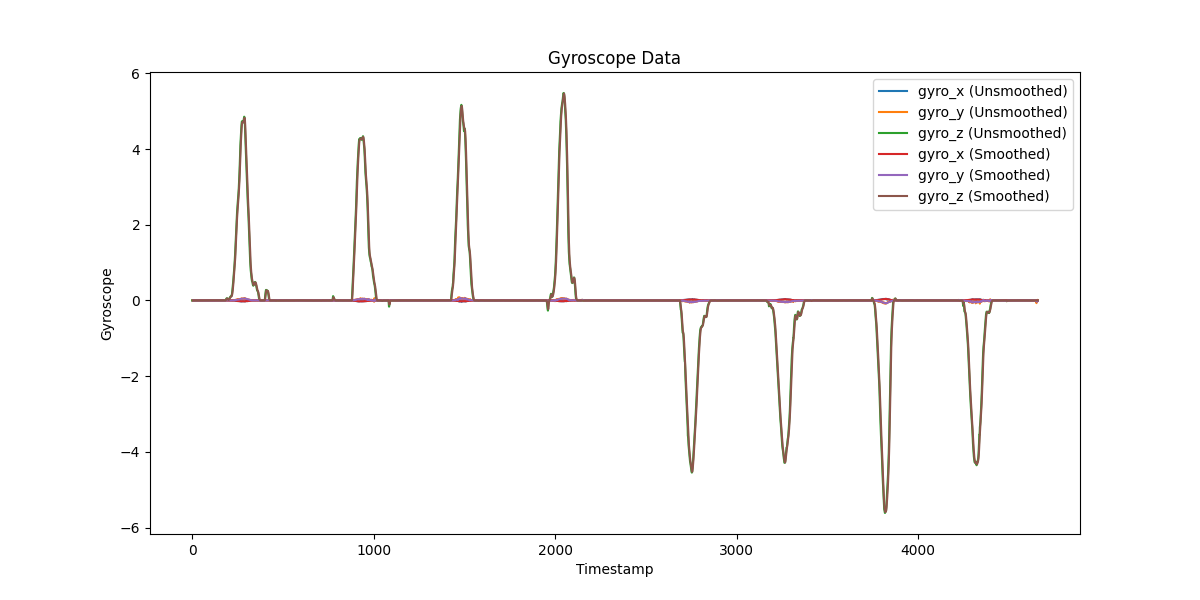
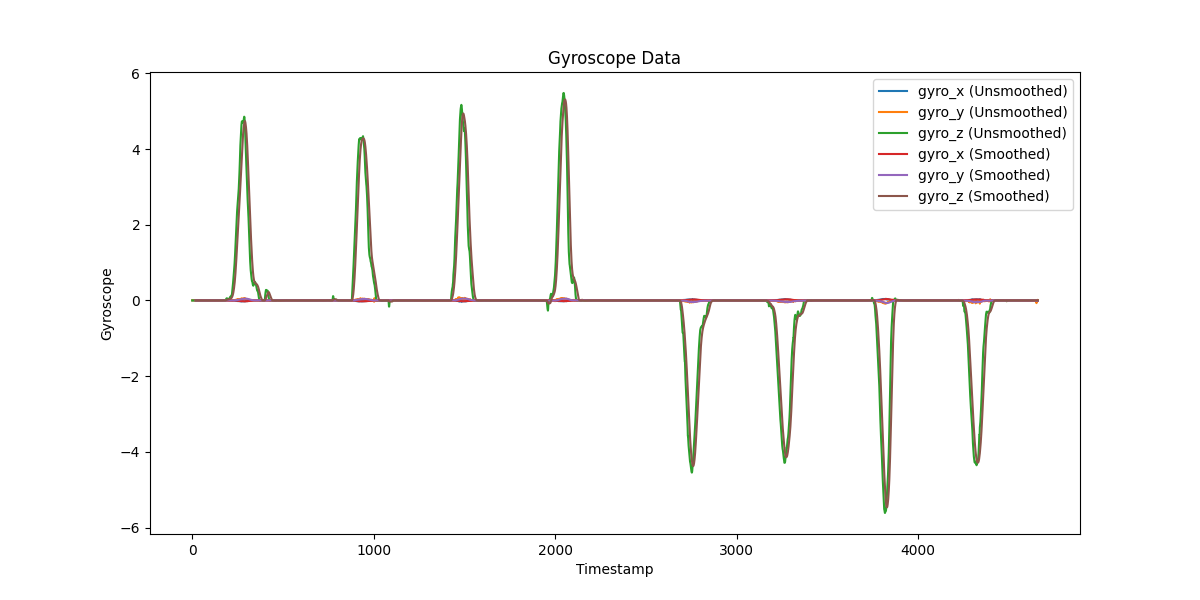
Fixed M3

diff --git a/m3/milestone3.py b/m3/milestone3.py
@@ -3,56 +3,10 @@ import numpy as np
 from matplotlib import pyplot as plt
 
 # read in cols
-columns_to_use = ['timestamp', 'accel_x', 'accel_y', 'accel_z', 'gyro_x', 'gyro_y', 'gyro_z', 'mag_x', 'mag_y', 'mag_z']
+columns_to_use = ['timestamp', 'gyro_x', 'gyro_y', 'gyro_z']
 data = pd.read_csv('../lab8-dataset/TURNING.csv', header=0, usecols=columns_to_use)
 
-# Plot the accelerometer data (both smoothed and unsmoothed)
-plt.figure(figsize=(12, 6))
-
-# Unsmoothed data
-plt.plot(data['accel_x'], label='accel_x (Unsmoothed)')
-plt.plot(data['accel_y'], label='accel_y (Unsmoothed)')
-plt.plot(data['accel_z'], label='accel_z (Unsmoothed)')
-
-# Smoothed data
-data['smooth_accel_x'] = data['accel_x'].rolling(window=5).mean()
-data['smooth_accel_y'] = data['accel_y'].rolling(window=5).mean()
-data['smooth_accel_z'] = data['accel_z'].rolling(window=5).mean()
-
-plt.plot(data['smooth_accel_x'], label='accel_x (Smoothed)')
-plt.plot(data['smooth_accel_y'], label='accel_y (Smoothed)')
-plt.plot(data['smooth_accel_z'], label='accel_z (Smoothed)')
-
-plt.xlabel('Timestamp')
-plt.ylabel('Acceleration')
-plt.title('Accelerometer Data')
-plt.legend()
-plt.savefig('accelerometer_plot.png')
-plt.show()
-
-# Plot the magnetometer data (both smoothed and unsmoothed)
-plt.figure(figsize=(12, 6))
-
-# Unsmoothed data
-plt.plot(data['mag_x'], label='mag_x (Unsmoothed)')
-plt.plot(data['mag_y'], label='mag_y (Unsmoothed)')
-plt.plot(data['mag_z'], label='mag_z (Unsmoothed)')
-
-# Smoothed data
-data['smooth_mag_x'] = data['mag_x'].rolling(window=5).mean()
-data['smooth_mag_y'] = data['mag_y'].rolling(window=5).mean()
-data['smooth_mag_z'] = data['mag_z'].rolling(window=5).mean()
-
-plt.plot(data['smooth_mag_x'], label='mag_x (Smoothed)')
-plt.plot(data['smooth_mag_y'], label='mag_y (Smoothed)')
-plt.plot(data['smooth_mag_z'], label='mag_z (Smoothed)')
-
-plt.xlabel('Timestamp')
-plt.ylabel('Magnetometer')
-plt.title('Magnetometer Data')
-plt.legend()
-plt.savefig('magnetometer_plot.png')
-plt.show()
+data['timestamp'] = data['timestamp'] * 1e-9
 
 # Plot the gyroscope data (both smoothed and unsmoothed)
 plt.figure(figsize=(12, 6))
@@ -63,9 +17,9 @@ plt.plot(data['gyro_y'], label='gyro_y (Unsmoothed)')
 plt.plot(data['gyro_z'], label='gyro_z (Unsmoothed)')
 
 # Smoothed data
-data['smooth_gyro_x'] = data['gyro_x'].rolling(window=5).mean()
-data['smooth_gyro_y'] = data['gyro_y'].rolling(window=5).mean()
-data['smooth_gyro_z'] = data['gyro_z'].rolling(window=5).mean()
+data['smooth_gyro_x'] = data['gyro_x'].rolling(window=20).mean()
+data['smooth_gyro_y'] = data['gyro_y'].rolling(window=20).mean()
+data['smooth_gyro_z'] = data['gyro_z'].rolling(window=20).mean()
 
 plt.plot(data['smooth_gyro_x'], label='gyro_x (Smoothed)')
 plt.plot(data['smooth_gyro_y'], label='gyro_y (Smoothed)')
@@ -76,36 +30,56 @@ plt.ylabel('Gyroscope')
 plt.title('Gyroscope Data')
 plt.legend()
 plt.savefig('gyroscope_plot.png')
-plt.show()
-# Detect 90-degree turns
-# Calculate thresholds based on quantiles of smoothed data
-quantile_accel = .7 # Adjust these quantile values as needed
-quantile_gyro = .7
-quantile_mag = .73
 
-threshold_accel = data['smooth_accel_x'].quantile(quantile_accel)
-threshold_gyro = data['smooth_gyro_x'].quantile(quantile_gyro)
-threshold_mag = data['smooth_mag_x'].quantile(quantile_mag)
+plt.figure(figsize=(12, 6))
 
-for index in range(len(data) - 2):
-    # Calculate changes in accelerometer data
-    delta_accel_x = data.at[index + 1, 'smooth_accel_x'] - data.at[index, 'smooth_accel_x']
-    delta_accel_y = data.at[index + 1, 'smooth_accel_y'] - data.at[index, 'smooth_accel_y']
-    delta_accel_z = data.at[index + 1, 'smooth_accel_z'] - data.at[index, 'smooth_accel_z']
-    magnitude_accel = np.sqrt(delta_accel_x ** 2 + delta_accel_y ** 2 + delta_accel_z ** 2)
+# Integrate gyroscope readings with respect to time
+data['time_seconds'] = data['timestamp']
+data['integral_smooth_gyro_x'] = np.cumsum(data['smooth_gyro_x'] * (data['time_seconds'].diff().fillna(0)))
+data['integral_smooth_gyro_y'] = np.cumsum(data['smooth_gyro_y'] * (data['time_seconds'].diff().fillna(0)))
+data['integral_smooth_gyro_z'] = np.cumsum(data['smooth_gyro_z'] * (data['time_seconds'].diff().fillna(0)))
 
-    # Calculate changes in gyroscope data
-    delta_gyro_x = data.at[index + 1, 'smooth_gyro_x'] - data.at[index, 'smooth_gyro_x']
-    delta_gyro_y = data.at[index + 1, 'smooth_gyro_y'] - data.at[index, 'smooth_gyro_y']
-    delta_gyro_z = data.at[index + 1, 'smooth_gyro_z'] - data.at[index, 'smooth_gyro_z']
-    magnitude_gyro = np.sqrt(delta_gyro_x ** 2 + delta_gyro_y ** 2 + delta_gyro_z ** 2)
+plt.plot(data['integral_smooth_gyro_x'], label='Integral gyro_x (Smoothed)')
+plt.plot(data['integral_smooth_gyro_y'], label='Integral gyro_y (Smoothed)')
+plt.plot(data['integral_smooth_gyro_z'], label='Integral gyro_z (Smoothed)')
 
-    # Calculate changes in magnetometer data
-    delta_mag_x = data.at[index + 1, 'smooth_mag_x'] - data.at[index, 'smooth_mag_x']
-    delta_mag_y = data.at[index + 1, 'smooth_mag_y'] - data.at[index, 'smooth_mag_y']
-    delta_mag_z = data.at[index + 1, 'smooth_mag_z'] - data.at[index, 'smooth_mag_z']
-    magnitude_mag = np.sqrt(delta_mag_x ** 2 + delta_mag_y ** 2 + delta_mag_z ** 2)
+plt.xlabel('Timestamp')
+plt.ylabel('Integrated Gyroscope')
+plt.title('Integrated Gyroscope Data')
+plt.legend()
+plt.savefig('integrated_gyroscope_plot.png')
 
-    # Check if any of the magnitudes exceed the thresholds
-    if magnitude_accel > threshold_accel and magnitude_gyro > threshold_gyro and magnitude_mag > threshold_mag:
-        print(f"Potential 90-degree turn detected at time {data.at[index, 'timestamp']}")
+threshold_gyro = 1.5
+data['magnitude_integrated_gyro'] = np.sqrt(data['integral_smooth_gyro_x']**2 +
+                                            data['integral_smooth_gyro_y']**2 +
+                                            data['integral_smooth_gyro_z']**2)
+data['magnitude_integrated_gyro'].replace([np.inf, -np.inf, np.nan], 0, inplace=True)
+data['division_result'] = (data['magnitude_integrated_gyro'] // threshold_gyro)
+
+plt.figure(figsize=(12, 6))
+plt.plot(data['integral_smooth_gyro_x'], label='Integral gyro_x (Smoothed)')
+plt.plot(data['integral_smooth_gyro_y'], label='Integral gyro_y (Smoothed)')
+plt.plot(data['integral_smooth_gyro_z'], label='Integral gyro_z (Smoothed)')
+
+# Plot vertical dotted lines at indexes where change is detected
+prev_value = 0
+legend_added = False
+total_turns = 0
+for index, row in data.iterrows():
+    current_value = row['division_result']
+    if current_value != prev_value:
+        total_turns+=1
+        if current_value > prev_value:
+            print(f"A 90 degree turn counterclockwise was made")
+        else:
+            print(f"A 90 degree turn clockwise was made")
+        plt.axvline(x=index, color='r', linestyle='--', label='Change' if not legend_added else '')
+        prev_value = current_value
+        legend_added = True
+
+plt.xlabel('Timestamp')
+plt.ylabel('Integrated Gyroscope')
+plt.title('Integrated Gyroscope Data')
+plt.legend()
+plt.savefig('integrated_gyroscope_plot_with_lines.png')
+print(f"A total of {total_turns} 90 degree turns were made.")

diff --git a/m4/milestone4.py b/m4/milestone4.py
@@ -1,0 +1,30 @@
+import pandas as pd
+import matplotlib.pyplot as plt
+import numpy as np
+
+# Step 1: Read the CSV file into a DataFrame
+df = pd.read_csv('../lab8-dataset/WALKING_AND_TURNING.csv', header=0,
+                 usecols=["timestamp", "accel_x", "accel_y", "accel_z", "gyro_x", "gyro_y", "gyro_z", "mag_x", "mag_y",
+                          "mag_z"])
+
+print(df)
+columns_to_smooth = ["accel_x", "accel_y", "accel_z", "gyro_x", "gyro_y", "gyro_z", "mag_x", "mag_y", "mag_z"]
+for column in columns_to_smooth:
+    df[column + "_smoothed"] = df[column].rolling(window=20, min_periods=1).mean()
+
+plt.figure(figsize=(12, 6))
+
+# Unsmoothed data
+# plt.plot(df['gyro_x'], label='gyro_x (Unsmoothed)')
+plt.plot(df['gyro_y'], label='gyro_y (Unsmoothed)')
+plt.plot(df['gyro_z'], label='gyro_z (Unsmoothed)')
+
+# plt.plot(df['gyro_x_smoothed'], label='gyro_x (Smoothed)')
+plt.plot(df['gyro_y_smoothed'], label='gyro_y (Smoothed)')
+plt.plot(df['gyro_z_smoothed'], label='gyro_z (Smoothed)')
+
+plt.xlabel('Timestamp')
+plt.ylabel('Gyroscope')
+plt.title('Gyroscope Data')
+plt.legend()
+plt.savefig('gyroscope_plot.png')
